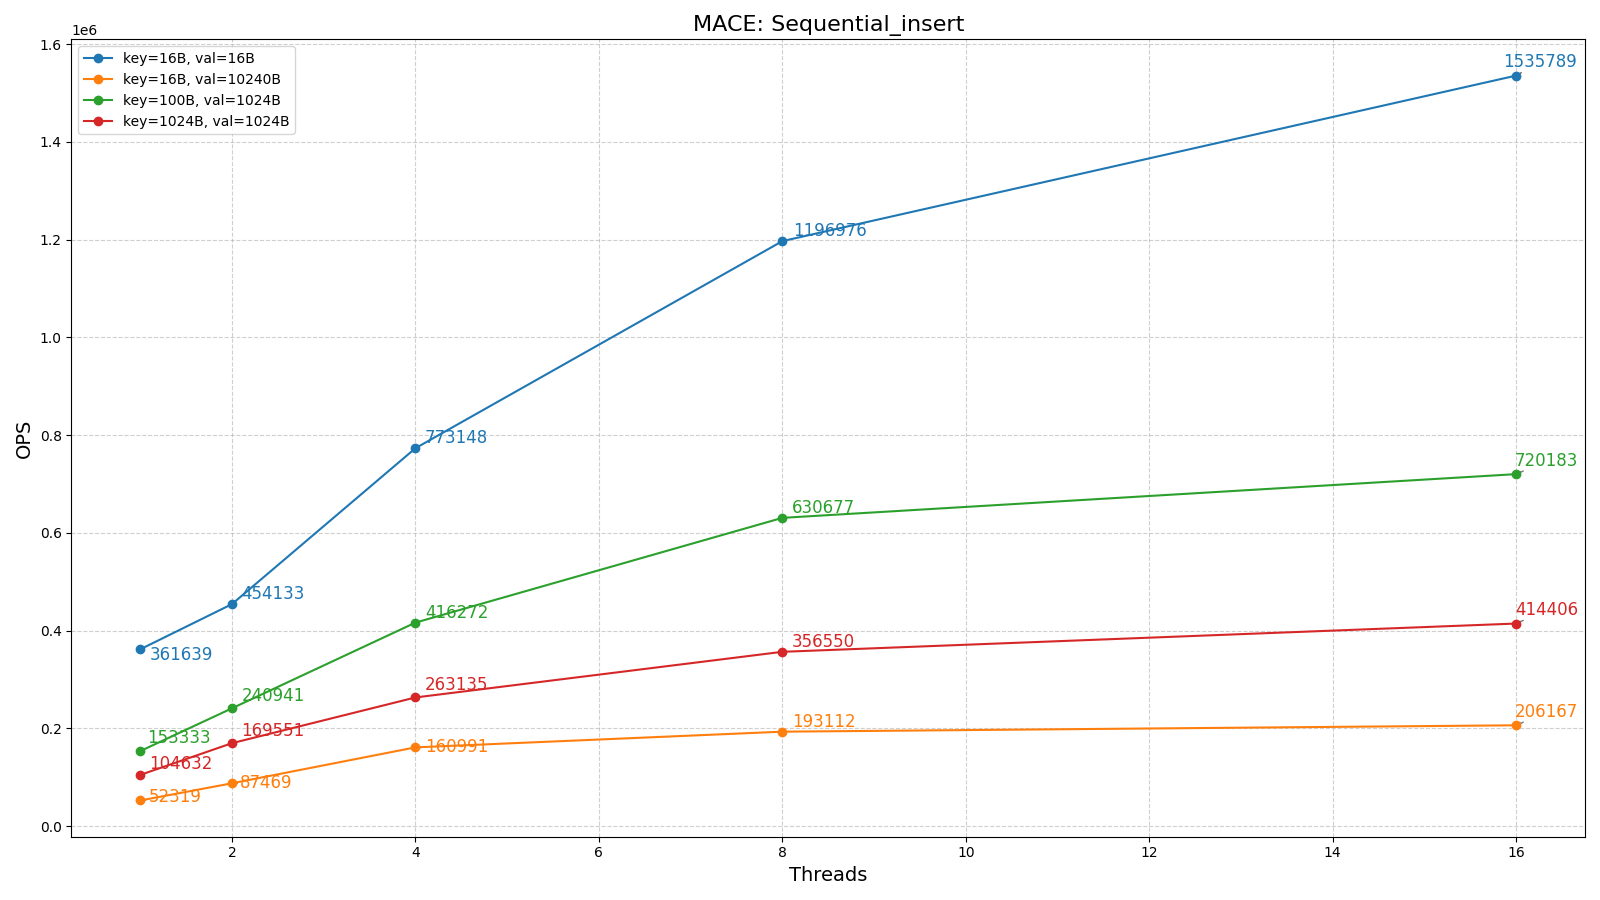
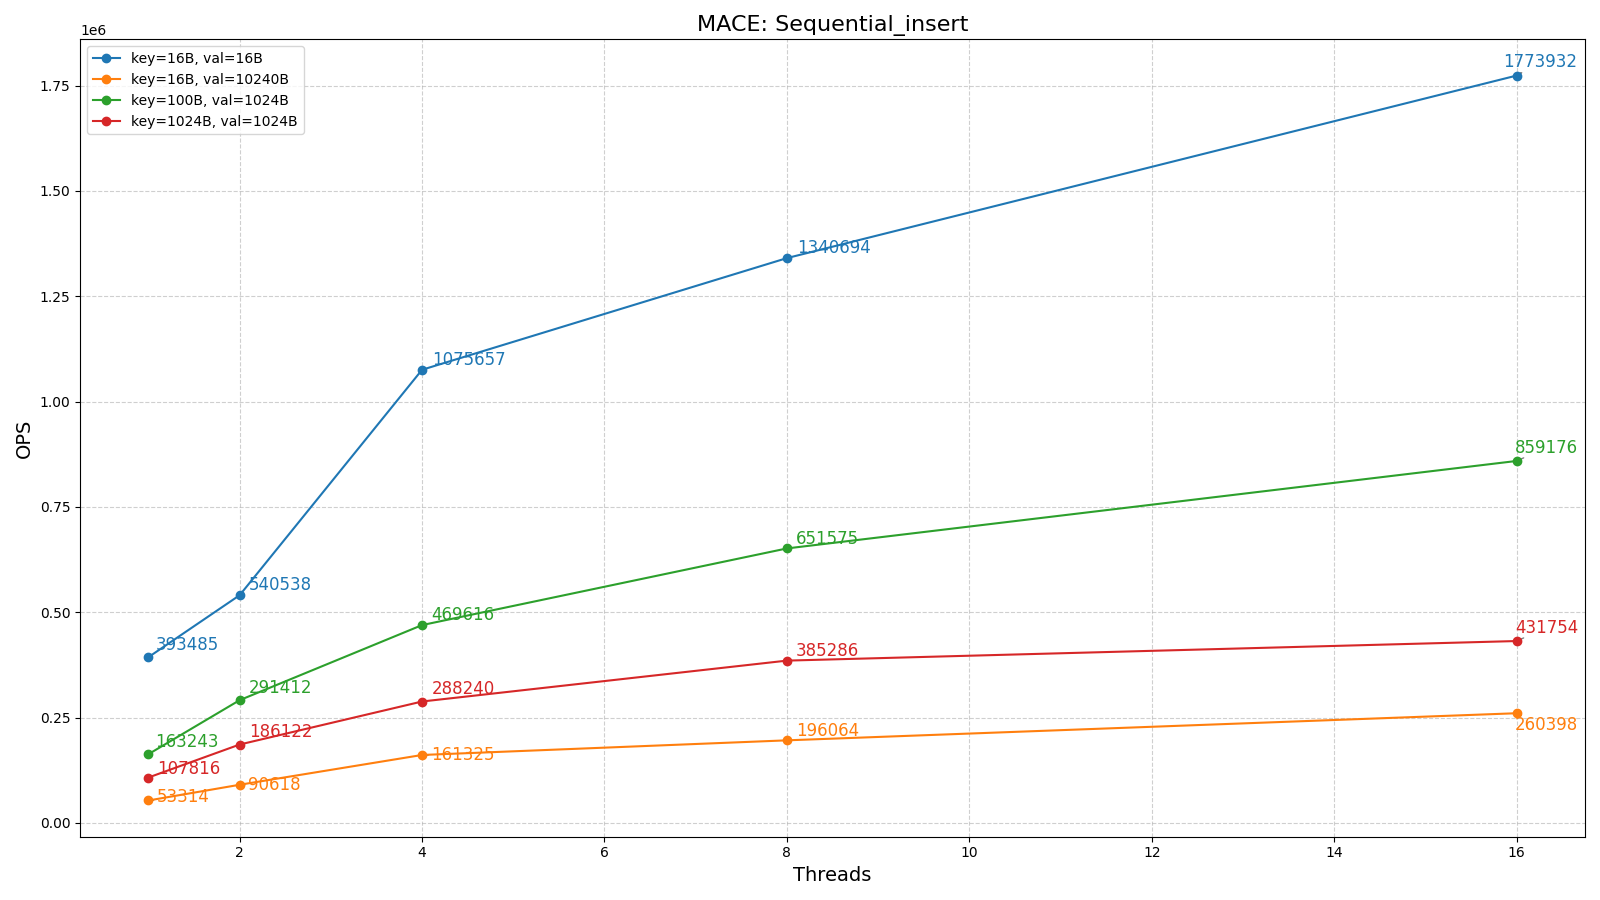
support mace 0.0.24

diff --git a/rocksdb/main.cpp b/rocksdb/main.cpp
@@ -115,8 +115,8 @@ int main(int argc, char *argv[]) {
     // top.use_delta_encoding = false;
     // cfo.table_factory.reset(rocksdb::NewBlockBasedTableFactory(top));
 
-    // use 1GB block cache
-    auto cache = rocksdb::NewLRUCache(1 << 30);
+    // use 3GB block cache
+    auto cache = rocksdb::NewLRUCache(3 << 30);
     rocksdb::BlockBasedTableOptions table_options{};
     table_options.block_cache = cache;
     cfo.table_factory.reset(NewBlockBasedTableFactory(table_options));

diff --git a/src/main.rs b/src/main.rs
@@ -82,6 +82,7 @@ fn main() {
     opt.over_provision = true; // large value will use lots of memeory
     opt.inline_size = args.blob_size;
     opt.tmp_store = args.mode != "get" && args.mode != "scan";
+    opt.cache_capacity = 3 << 30;
     let mut saved = opt.clone();
     saved.tmp_store = false;
     let mut db = Mace::new(opt.validate().unwrap()).unwrap();

diff --git a/README.md b/README.md
@@ -1,7 +1,9 @@
-# mace 0.0.23 vs rocksdb 10.4.2
+# mace 0.0.24 vs rocksdb 10.4.2
+
+**mace 0.0.24 traded a slight dip in query performance for a 10+% boost in insertion performance.**
 
 ## sequential insert
-![mace__sequential_insert](./scripts/mace_sequential_insert.png)
+![mace_sequential_insert](./scripts/mace_sequential_insert.png)
 
 ![rocksdb_sequential_insert](./scripts/rocksdb_sequential_insert.png)
 
